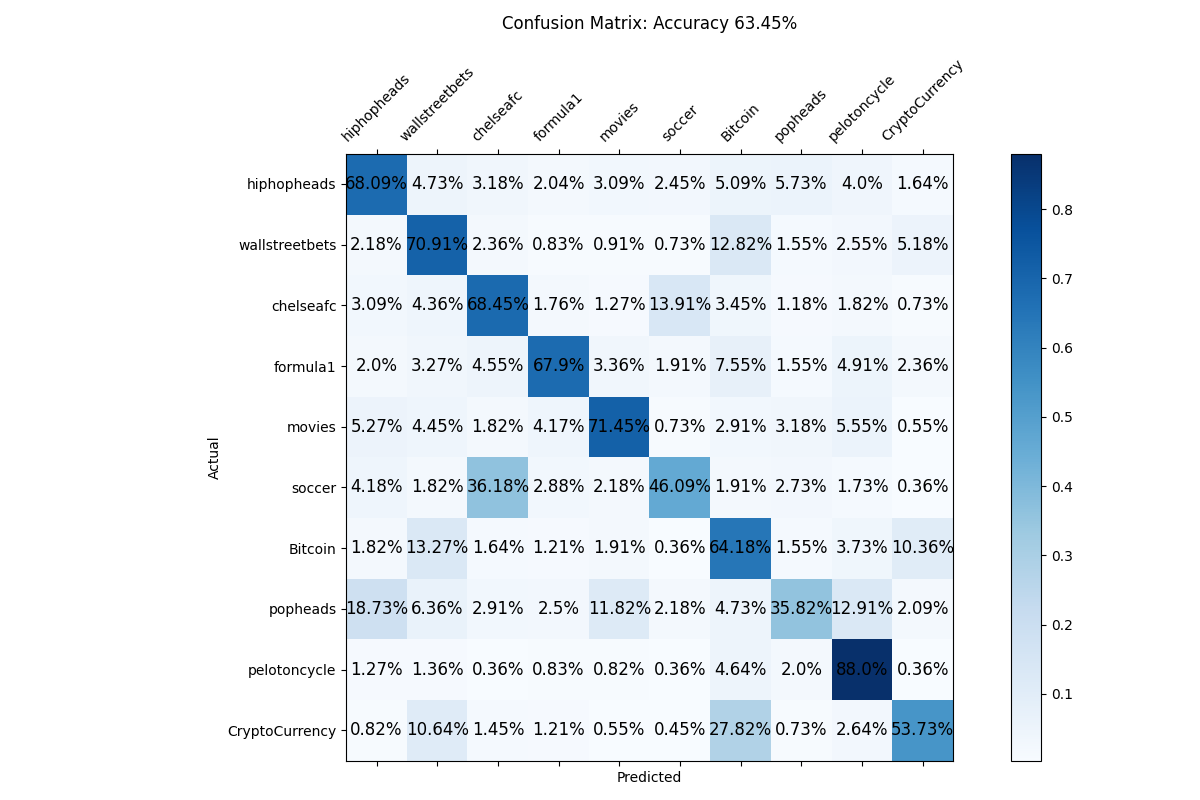
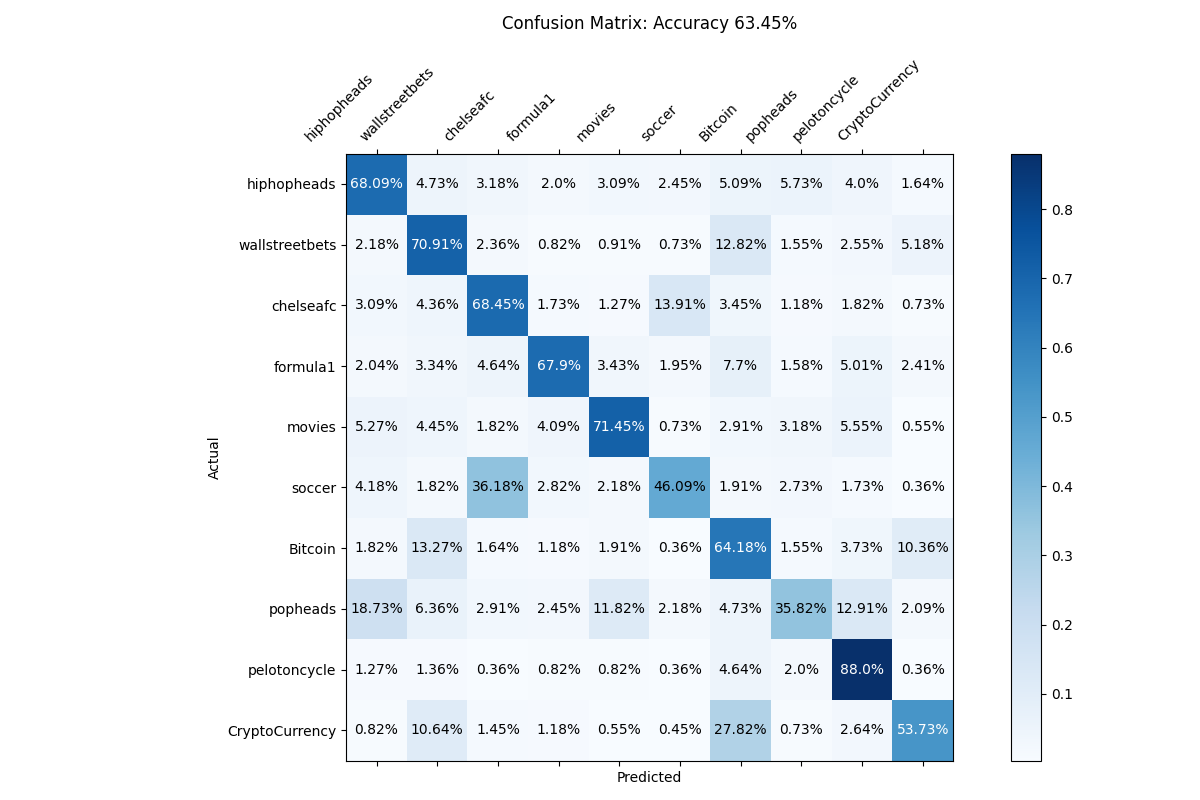
mods to the conf matrix

diff --git a/src/callbacks/conf_mat.py b/src/callbacks/conf_mat.py
@@ -1,13 +1,15 @@
 import os
-from matplotlib.figure import Figure
+
 import numpy as np
 from numpy import ndarray
-from matplotlib import colormaps
+
 import matplotlib.pyplot as plt
+from matplotlib.figure import Figure
+from matplotlib import colormaps
+
 from torch import Tensor
 
 from ..trainer.trainer import Trainer
-
 from .base import Callback
 
 
@@ -82,8 +84,9 @@ class ConfusionMatrix(Callback):
             matrix[actual, predicted] += 1
         return matrix
 
-    @staticmethod 
-    def make_confusion_matrix_fig(matrix:ndarray, 
+
+    @staticmethod
+    def make_confusion_matrix_fig(matrix: ndarray,
                                   class_names: list,
                                   figsize: tuple[int, int] = (12, 8)) -> Figure:
         """
@@ -92,36 +95,84 @@ class ConfusionMatrix(Callback):
         Parameters:
         - matrix: A 2D numpy array representing the confusion matrix.
         - class_names: A list of names for the classes.
+        - figsize: Figure dimension tuple (width, height).
         """
-        try:
-            class_names = list(np.array(class_names).astype(str))
-        except:
-            raise Exception("class names could not be converted to string")
-    
-        accuracy = np.round(np.einsum("ii->i", matrix).sum() / matrix.sum() * 100, 2)
+        class_names = [str(name) for name in class_names]
+        accuracy = np.round(np.trace(matrix) / np.sum(matrix) * 100, 2)
     
         fig, ax = plt.subplots(figsize=figsize)
-        percentages = matrix / matrix.sum(axis=1)
-        cax = ax.matshow(percentages, cmap=colormaps["Blues"])
+        row_sums = matrix.sum(axis=1)
+        percentages = np.divide(matrix, row_sums[:, None], where=row_sums[:, None] != 0)
+        cax = ax.matshow(percentages, cmap='Blues')
         plt.title(f'Confusion Matrix: Accuracy {accuracy}%', pad=20)
         fig.colorbar(cax)
         ax.set_xticks(np.arange(len(class_names)))
         ax.set_yticks(np.arange(len(class_names)))
-        ax.set_xticklabels(class_names, rotation=45)
+        ax.set_xticklabels(class_names, rotation=45, ha="right")
         ax.set_yticklabels(class_names)
     
-        # Loop over data dimensions and create text annotations.
         for i in range(matrix.shape[0]):
             for j in range(matrix.shape[1]):
+                if row_sums[i] != 0:
+                    percentage_text = f"{np.round(percentages[i, j] * 100, 2)}%" 
+                else: 
+                    percentage_text = '0%'
+
                 ax.text(
-                    j, i, 
-                    f"{np.round(percentages[i, j] * 100 ,2 )}%", 
-                    ha="center", va="center", color="Black",
-                    size=12
+                    j, i, percentage_text, 
+                    ha="center", va="center", 
+                    color="white" if percentages[i, j] > 0.5 else "black"
                 )
     
         plt.xlabel('Predicted')
         plt.ylabel('Actual')
         plt.tight_layout()
-    
+
         return fig
+
+
+    # @staticmethod 
+    # def make_confusion_matrix_fig(matrix:ndarray, 
+    #                               class_names: list,
+    #                               figsize: tuple[int, int] = (12, 8)) -> Figure:
+    #     """
+    #     Plot the confusion matrix using matplotlib.
+    # 
+    #     Parameters:
+    #     - matrix: A 2D numpy array representing the confusion matrix.
+    #     - class_names: A list of names for the classes.
+    #     """
+    #     try:
+    #         class_names = list(np.array(class_names).astype(str))
+    #     except:
+    #         raise Exception("class names could not be converted to string")
+    # 
+    #     accuracy = np.round(np.einsum("ii->i", matrix).sum() / matrix.sum() * 100, 2)
+    # 
+    #     fig, ax = plt.subplots(figsize=figsize)
+    #     percentages = matrix / matrix.sum(axis=1)
+    #     cax = ax.matshow(percentages, cmap=colormaps["Blues"])
+    #     plt.title(f'Confusion Matrix: Accuracy {accuracy}%', pad=20)
+    #     fig.colorbar(cax)
+    #     ax.set_xticks(np.arange(len(class_names)))
+    #     ax.set_yticks(np.arange(len(class_names)))
+    #     ax.set_xticklabels(class_names, rotation=45)
+    #     ax.set_yticklabels(class_names)
+    # 
+    #     # Loop over data dimensions and create text annotations.
+    #     for i in range(matrix.shape[0]):
+    #         for j in range(matrix.shape[1]):
+    #             ax.text(
+    #                 j, i, 
+    #                 f"{np.round(percentages[i, j] * 100 ,2 )}%", 
+    #                 ha="center", va="center", color="Black",
+    #                 size=12
+    #             )
+    # 
+    #     plt.xlabel('Predicted')
+    #     plt.ylabel('Actual')
+    #     plt.tight_layout()
+    # 
+    #     return fig
+
+
